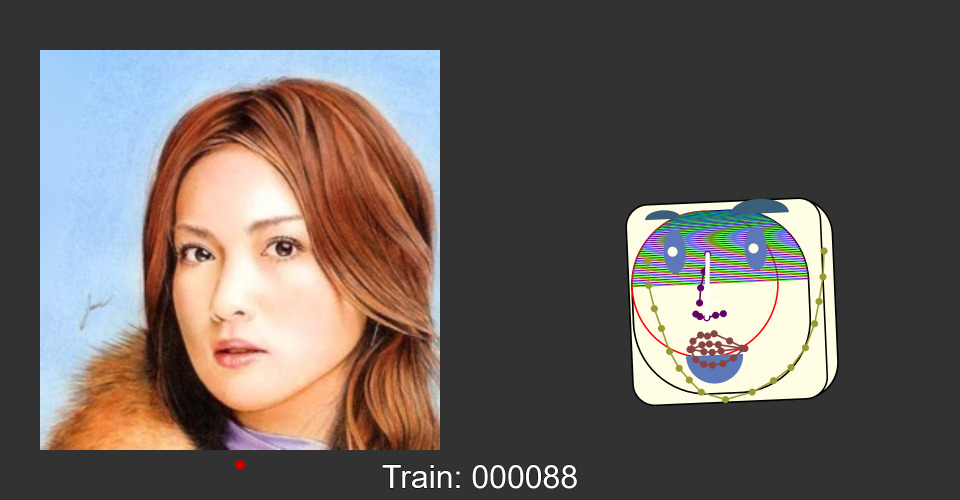
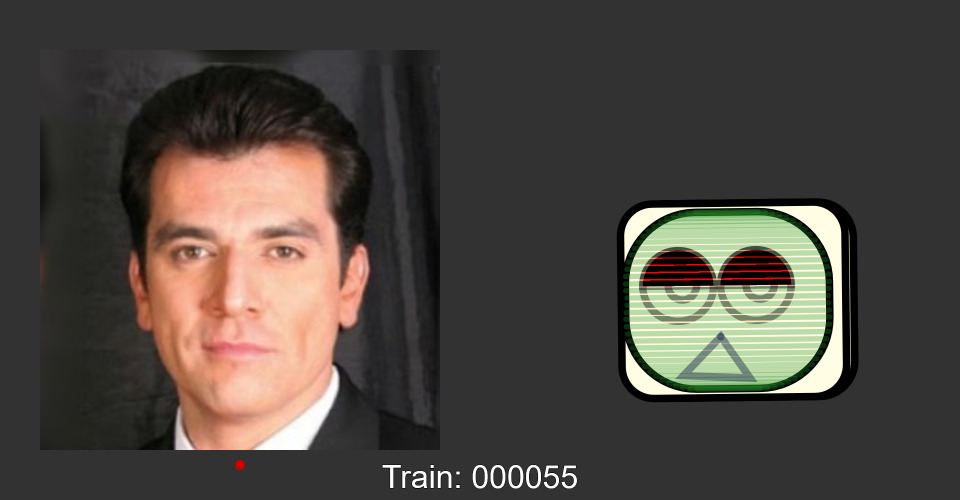
color switch

diff --git a/face.js b/face.js
@@ -42,7 +42,11 @@ function Face() {
   this.lipColour = [136, 68, 68];
   this.eyebrowColour = [59, 95, 120];
 
-  
+  this.screenRed = [255, 15, 115, 70];
+  this.screenGreen = [38, 145, 40, 80];
+  this.screenBlue = [15, 107, 255, 70];
+  this.colorPick = [this.screenRed, this.screenGreen, this.screenBlue];
+  this.colorSwitch = 2;
 
   
 
@@ -57,16 +61,20 @@ function Face() {
     this.headWidth = positions.chin[16][0] - positions.chin[0][0]; // Use 1st and last points of chin to get width
     this.headHeight = positions.chin[8][1] - positions.nose_bridge[0][1]; // Top nose bridge point to bottom chin point
     this.noseTipCenterX = positions.nose_tip[2][0]; // Center point of nose tip, to use for finding the offset of head left or right side
-    this.roundCorner = 0; // Radius of round corner (or tangent circle's radius)
+    this.roundCorner; // Radius of round corner (or tangent circle's radius)
+    this.headSize_L = positions.nose_tip[2][0] - positions.chin[2][0]; // Size of left side head
+    this.headSize_R = positions.chin[14][0] - positions.nose_tip[2][0]; // Size of right side head
+    this.headOffset;
+    this.headOffsetRatio;
 
-    this.topLeftCorner_X = this.headPosX - this.noseTipCenterX + this.headWidth / 2 - this.roundCorner;
-    this.topLeftCorner_Y = this.headPosY - this.headHeight*1.25 /2 + this.roundCorner;
-    this.topRightCorner_X = this.headPosX - this.noseTipCenterX - this.headWidth / 2 + this.roundCorner;
-    this.topRightCorner_Y = this.headPosY - this.headHeight*1.25 /2 + this.roundCorner;
-    this.bottomLeftCorner_X = this.headPosX - this.noseTipCenterX + this.headWidth / 2 - this.roundCorner;
-    this.bottomLeftCorner_Y = this.headPosY + this.headHeight*1.25 /2 - this.roundCorner;
-    this.bottomLeftCorner_X = this.headPosX - this.noseTipCenterX - this.headWidth / 2 + this.roundCorner;
-    this.bottomLeftCorner_Y = this.headPosY + this.headHeight*1.25 /2 - this.roundCorner;
+    this.topLeftCorner_X = this.headPosX - this.headWidth / 2 + this.roundCorner * 2;
+    this.topLeftCorner_Y = this.headPosY - this.headHeight*1.25 /2 + this.roundCorner * 2;
+    this.topRightCorner_X = this.headPosX + this.headWidth / 2 - this.roundCorner * 2;
+    this.topRightCorner_Y = this.headPosY - this.headHeight*1.25 /2 + this.roundCorner * 2;
+    this.bottomLeftCorner_X = this.headPosX - this.headWidth / 2 + this.roundCorner * 2;
+    this.bottomLeftCorner_Y = this.headPosY + this.headHeight*1.25 /2 - this.roundCorner * 2;
+    this.bottomRightCorner_X = this.headPosX + this.headWidth / 2 - this.roundCorner * 2;
+    this.bottomRightCorner_Y = this.headPosY + this.headHeight*1.25 /2 - this.roundCorner * 2;
     
     // head
     
@@ -75,6 +83,7 @@ function Face() {
     rectMode(CENTER);
     
     stroke(stroke_color);
+    strokeWeight(0.14);
     fill(this.mainColour);
 
     push();
@@ -85,93 +94,97 @@ function Face() {
     else if(this.headWidth > this.headHeight){
       this.roundCorner = this.headHeight * 0.25;
     }
+
+    // To get the facing direction
+    if(this.headSize_L < this.headSize_R){
+      this.headOffset = this.headSize_R * (this.headSize_R / this.headSize_L);
+      this.headOffsetRatio = this.headSize_R / this.headSize_L;
+    }
+    else if(this.headSize_L > this.headSize_R){
+      this.headOffset = -this.headSize_L * (this.headSize_L / this.headSize_R);
+      this.headOffsetRatio = this.headSize_L / this.headSize_R;
+    }
     // rect(segment_average(positions.chin)[0]+1.4, 0, 3.6, 3, 0.9);
     // rect(segment_average(positions.chin)[0]+1, 0, 3.6, 3.5, 0.5);
-    rect(this.headPosX - this.noseTipCenterX *2.5, this.headPosY, this.headWidth*1.1, this.headHeight*1.25*1.1, this.roundCorner);
-    
-    rect(this.headPosX - this.noseTipCenterX * 1.5, this.headPosY, this.headWidth*1.1, this.headHeight*1.25*1.1, this.roundCorner * 0.6);
+    push();
+    translate(this.headOffset*0.22, 0);
+    fill(184, 182, 163);
+    rect(this.headPosX, this.headPosY, this.headWidth*1.1, this.headHeight*1.25*1.1, this.roundCorner);
+    pop();
+
+    push();
+    translate(this.headOffset*0.15, 0);
+    rect(this.headPosX, this.headPosY, this.headWidth*1.1, this.headHeight*1.25*1.1, this.roundCorner * 0.9);
+    pop();
 
     push();
     // blendMode(HARD_LIGHT);
     // noStroke();
-    
+    translate(this.headOffset*0.1, 0);
     fill(this.mainColour);
-    rect(this.headPosX - this.noseTipCenterX, this.headPosY, this.headWidth, this.headHeight*1.25, this.roundCorner * 2);
+    rect(this.headPosX, this.headPosY, this.headWidth, this.headHeight*1.25, this.roundCorner * 2);
+    pop();
 
     // Draw circle helper
+    push();
+    translate(this.headOffset*0.1, 0);
     noFill();
-    stroke('red');
-    ellipse(this.headPosX - this.noseTipCenterX - this.headWidth / 2 + this.roundCorner * 2,
-            this.headPosY - this.headHeight*1.25 /2 + this.roundCorner * 2,
-            this.roundCorner * 2 * 2);
+    stroke(255, 153, 145);
+    strokeWeight(0.02);
+    // ellipse(this.topLeftCorner_X,this.topLeftCorner_Y,this.roundCorner*4);
+    // ellipse(this.topRightCorner_X,this.topRightCorner_Y,this.roundCorner*4);
+    // ellipse(this.bottomLeftCorner_X,this.bottomLeftCorner_Y,this.roundCorner*4);
+    // ellipse(this.bottomRightCorner_X,this.bottomRightCorner_Y,this.roundCorner*4);
+    pop();
 
-    strokeWeight(0.01);
-    stroke(0);
-    // for(i=0;i<90;i+=5){
-    //   for(j=0;j<250-150;j+=4){
-       
-    //  line(topLeftCorner_X-cos(i)*this.roundCorner, topLeftCorner_Y-sin(i)*this.roundCorner,
-    //  topRightCorner_X+cos(i)*this.roundCorner, topRightCorner_Y-sin(i)*this.roundCorner);
+    push();
+    translate(this.headOffset*0.1, 0);
+    strokeWeight(0.1);
+    stroke(this.colorPick[this.colorSwitch]);
+    for(i=0;i<=90;i+=6){
+      // for(j=0;j<=this.bottomLeftCorner_Y-this.topLeftCorner_Y;j+=0.5){
+      //   stroke(15, 107, 255, 70);
+      //  let a = map(j,0,this.bottomLeftCorner_Y-this.topLeftCorner_Y,65,115);
+          // line(this.topLeftCorner_X - sin(a) * this.roundCorner * 2 * 1.12, this.topLeftCorner_Y+j,
+          //  this.topRightCorner_X + this.roundCorner * 2, this.topRightCorner_Y+j*1.5);
+      //      line(this.topLeftCorner_X - this.roundCorner * 2, this.topLeftCorner_Y+j,
+      //      this.topRightCorner_X + this.roundCorner * 2, this.topRightCorner_Y+j);
+      //  }
+    line(this.topLeftCorner_X-cos(i)*this.roundCorner * 2, this.topLeftCorner_Y-sin(i)*this.roundCorner * 2,
+          this.topRightCorner_X+cos(i)*this.roundCorner * 2, this.topRightCorner_Y-sin(i)*this.roundCorner * 2);
      
-    //  line(150-cos(i)*50, 250+sin(i)*50,
-    //      250+cos(i)*50, 275+sin(i)*50);
-    //  let a = map(j,0,250-150,65,115);
-    //     line(150-50*sin(a)*1.12, 150+j,
-    //      250+50, 125+j*1.5);
-    
-    //  }
-    // }
-    for(topLeftCorner = 1; topLeftCorner < 90; topLeftCorner+=2){
-      stroke(255, 0, 0);
-      line(this.headPosX - this.noseTipCenterX - this.headWidth / 2 + this.roundCorner * 2 - cos(topLeftCorner) * this.roundCorner * 2,
-      this.headPosY - this.headHeight*1.25 /2 + this.roundCorner * 2 - sin(topLeftCorner) * this.roundCorner * 2,
-      this.headPosX - this.noseTipCenterX + this.headWidth / 2 - this.roundCorner * 2 + cos(topLeftCorner) * this.roundCorner * 2,
-      this.headPosY - this.headHeight*1.25 /2 + this.roundCorner * 2 - sin(topLeftCorner) * this.roundCorner * 2
-      );
-      stroke(0, 255, 0);
-      line(this.headPosX - this.noseTipCenterX - this.headWidth / 2 + this.roundCorner * 2 - cos(topLeftCorner-0.5) * this.roundCorner * 2,
-      this.headPosY - this.headHeight*1.25 /2 + this.roundCorner * 2 - sin(topLeftCorner-0.5) * this.roundCorner * 2,
-      this.headPosX - this.noseTipCenterX + this.headWidth / 2 - this.roundCorner * 2 + cos(topLeftCorner-0.5) * this.roundCorner * 2,
-      this.headPosY - this.headHeight*1.25 /2 + this.roundCorner * 2 - sin(topLeftCorner-0.5) * this.roundCorner * 2
-      );
-      stroke(0, 0, 255);
-      line(this.headPosX - this.noseTipCenterX - this.headWidth / 2 + this.roundCorner * 2 - cos(topLeftCorner+0.5) * this.roundCorner * 2,
-      this.headPosY - this.headHeight*1.25 /2 + this.roundCorner * 2 - sin(topLeftCorner+0.5) * this.roundCorner * 2,
-      this.headPosX - this.noseTipCenterX + this.headWidth / 2 - this.roundCorner * 2 + cos(topLeftCorner+0.5) * this.roundCorner * 2,
-      this.headPosY - this.headHeight*1.25 /2 + this.roundCorner * 2 - sin(topLeftCorner+0.5) * this.roundCorner * 2
-      );
+    line(this.bottomLeftCorner_X-cos(i)*this.roundCorner * 2, this.bottomLeftCorner_Y+sin(i)*this.roundCorner * 2,
+          this.bottomRightCorner_X+cos(i)*this.roundCorner * 2, this.bottomRightCorner_Y+sin(i)*this.roundCorner * 2);
     }
     
+    for(i=5.5;i<=12;i+=6){
+    line(this.topLeftCorner_X-cos(i)*this.roundCorner * 2, this.topLeftCorner_Y+sin(i)*this.roundCorner * 2,
+          this.topRightCorner_X+cos(i)*this.roundCorner * 2, this.topRightCorner_Y+sin(i)*this.roundCorner * 2);
+     
+    line(this.bottomLeftCorner_X-cos(i)*this.roundCorner * 2, this.bottomLeftCorner_Y-sin(i)*this.roundCorner * 2,
+          this.bottomRightCorner_X+cos(i)*this.roundCorner * 2, this.bottomRightCorner_Y-sin(i)*this.roundCorner * 2);
+    }
     pop();
 
     pop();
-    // Draw hatch lines
-    push();
-    // strokeWeight(0.01);
-    // for (hatchingY = -1; hatchingY < 1.4; hatchingY += 0.1){
-    //   line(segment_average(positions.chin)[0]+2.8, hatchingY, segment_average(positions.chin)[0]+2.5-hatchingY*0.04, hatchingY-0.2);
-    //   line(segment_average(positions.chin)[0]+2.8, hatchingY, segment_average(positions.chin)[0]+3-hatchingY*0.02, hatchingY-0.1);
-    //   line(segment_average(positions.chin)[0]+2.8, hatchingY-0.2, segment_average(positions.chin)[0]+3-hatchingY*0.02, hatchingY);
-    // }
-    pop();
 
-    
-    
     ///////////////////////////////////////////////////////////////
 
     // mouth
     push();
-    noStroke();
-    fill(this.detailColour);
-    arc(segment_average(positions.bottom_lip)[0], segment_average(positions.bottom_lip)[1], 
-    segment_average(positions.bottom_lip)[1]-segment_average(positions.bottom_lip)[0], 1 * this.mouth_size, 
-        0,180);
+    stroke(0, 7, 56, 100);
+    noFill();
+    point(positions.top_lip[4][0], positions.top_lip[4][1]);
+    triangle(positions.top_lip[4][0], positions.top_lip[4][1], 
+      positions.bottom_lip[0][0], positions.bottom_lip[0][1]+this.mouth_size*0.1, 
+      positions.bottom_lip[6][0], positions.bottom_lip[6][1]+this.mouth_size*0.1);
+    
     pop();
 
     ///////////////////////////////////////////////////////////////
 
     // eyebrows
-    
+    push();
     fill( this.eyebrowColour);
     stroke( this.eyebrowColour);
     noStroke();
@@ -179,47 +192,55 @@ function Face() {
     // this.draw_segment(positions.right_eyebrow);
     
     // fill(this.detailColour);
-    arc(positions.left_eyebrow[2][0], positions.left_eyebrow[2][1], 
-      positions.left_eyebrow[4][0] - positions.left_eyebrow[0][0], (positions.left_eyebrow[4][0] - positions.left_eyebrow[0][0]) / 2, 
-        180,360);
-    arc(positions.right_eyebrow[2][0], positions.right_eyebrow[2][1], 
-      positions.right_eyebrow[4][0] - positions.right_eyebrow[0][0], (positions.right_eyebrow[4][0] - positions.right_eyebrow[0][0]) / 2, 
-        180,360);
+    // arc(positions.left_eyebrow[2][0], positions.left_eyebrow[2][1], 
+    //   positions.left_eyebrow[4][0] - positions.left_eyebrow[0][0], (positions.left_eyebrow[4][0] - positions.left_eyebrow[0][0]) / 2, 
+    //     180,360);
+    // arc(positions.right_eyebrow[2][0], positions.right_eyebrow[2][1], 
+    //   positions.right_eyebrow[4][0] - positions.right_eyebrow[0][0], (positions.right_eyebrow[4][0] - positions.right_eyebrow[0][0]) / 2, 
+    //     180,360);
+    pop();
 
     // draw the chin segment using points
-    fill(this.chinColour);
-    stroke(this.chinColour);
-    this.draw_segment(positions.chin);
+    // push();
+    // fill(this.chinColour);
+    // stroke(this.chinColour);
+    // this.draw_segment(positions.chin);
 
-    fill(100, 0, 100);
-    stroke(100, 0, 100);
-    this.draw_segment(positions.nose_bridge);
-    this.draw_segment(positions.nose_tip);
+    // fill(100, 0, 100);
+    // stroke(100, 0, 100);
+    // this.draw_segment(positions.nose_bridge);
+    // this.draw_segment(positions.nose_tip);
 
-    strokeWeight(0.03);
+    // strokeWeight(0.03);
 
-    fill(this.lipColour);
-    stroke(this.lipColour);
-    this.draw_segment(positions.top_lip);
-    this.draw_segment(positions.bottom_lip);
+    // fill(this.lipColour);
+    // stroke(this.lipColour);
+    // this.draw_segment(positions.top_lip);
+    // this.draw_segment(positions.bottom_lip);
+    // pop();
     
     ///////////////////////////////////////////////////////////////
 
     // eyes
-
+    push();
     let left_eye_pos = segment_average(positions.left_eye);
     let right_eye_pos = segment_average(positions.right_eye);
 
-    noStroke();
+    blendMode(BURN);
+    noFill();
+    stroke(0, 7, 56, 100);
     let curEyeShift = 0.04 * this.eye_shift;
     if(this.num_eyes == 2) {
-      fill(this.detailColour);
-      ellipse(left_eye_pos[0], left_eye_pos[1], 0.4, 0.8);
-      ellipse(right_eye_pos[0], right_eye_pos[1], 0.4, 0.8);
+      // fill(this.detailColour);
+      ellipse(left_eye_pos[0]+0.1, positions.nose_bridge[2][1], this.headHeight*0.5, this.headHeight*0.5);
+      ellipse(right_eye_pos[0]-0.1, positions.nose_bridge[2][1], this.headHeight*0.5, this.headHeight*0.5);
 
-      fill(this.mainColour);
-      ellipse(left_eye_pos[0] + curEyeShift, left_eye_pos[1], 0.18);
-      ellipse(right_eye_pos[0] + curEyeShift, right_eye_pos[1], 0.18);
+      ellipse(left_eye_pos[0]+0.1 + curEyeShift, positions.nose_bridge[2][1], this.headHeight*0.2);
+      ellipse(right_eye_pos[0]-0.1 + curEyeShift, positions.nose_bridge[2][1], this.headHeight*0.2);
+
+      fill(0);
+      arc(left_eye_pos[0]+0.1, positions.nose_bridge[2][1], this.headHeight*0.5, this.headHeight*0.5, 180, 360, CHORD);
+      arc(right_eye_pos[0]-0.1, positions.nose_bridge[2][1], this.headHeight*0.5, this.headHeight*0.5, 180, 360, CHORD);
     }
     else {
       let eyePosX = (left_eye_pos[0] + right_eye_pos[0]) / 2;
@@ -231,7 +252,7 @@ function Face() {
       fill(this.mainColour);
       ellipse(eyePosX - 0.1 + curEyeShift, eyePosY, 0.18);
     }
-
+    pop();
     ///////////////////////////////////////////////////////////////
 
     // nose
@@ -240,12 +261,12 @@ function Face() {
     stroke(255);
     // let noseTop = this.draw_segment(positions.nose_bridge);
     // let noseBottom = this.draw_segment(positions.nose_tip);
-    line(positions.nose_bridge[0][0], positions.nose_bridge[0][1], positions.nose_tip[2][0], positions.nose_tip[2][1]);
+    // line(positions.nose_bridge[0][0], positions.nose_bridge[0][1], positions.nose_tip[2][0], positions.nose_tip[2][1]);
     pop();
 
     ///////////////////////////////////////////////////////////////
    fill(0);
-   ellipse(0,0, 0.1,0.1); //center point
+  //  ellipse(0,0, 0.1,0.1); //center point
   //  rect(-2,-2,4.5,4); //sizing debug 
   }
 
@@ -276,7 +297,7 @@ function Face() {
 
   /* set internal properties based on list numbers 0-100 */
   this.setProperties = function(settings) {
-    this.num_eyes = int(map(settings[0], 0, 100, 1, 2));
+    this.colorSwitch = int(map(settings[0], 0, 100, 0, 2));
     this.eye_shift = map(settings[1], 0, 100, -2, 2);
     this.mouth_size = map(settings[2], 0, 100, 0.5, 8);
   }
@@ -284,9 +305,10 @@ function Face() {
   /* get internal properties as list of numbers 0-100 */
   this.getProperties = function() {
     let settings = new Array(3);
-    settings[0] = map(this.num_eyes, 1, 2, 0, 100);
+    settings[0] = map(this.colorPick, 0, 2, 0, 100);
     settings[1] = map(this.eye_shift, -2, 2, 0, 100);
     settings[2] = map(this.mouth_size, 0.5, 8, 0, 100);
+
     return settings;
   }
 }

diff --git a/README.md b/README.md
@@ -2,4 +2,4 @@
 [![Open in Visual Studio Code](https://classroom.github.com/assets/open-in-vscode-718a45dd9cf7e7f842a935f5ebbe5719a5e09af4491e668f4dbf3b35d5cca122.svg)](https://classroom.github.com/online_ide?assignment_repo_id=11103452&assignment_repo_type=AssignmentRepo)
 ## 2023 MDDN342 Assignment 3: Data Mappings
 
-I had an improvement of the screen code, but it doesn't work properly here.
+I'm using thick stroke weight for a cartoonish look, as well as for the CRT screen. Three colours can be switched. 
